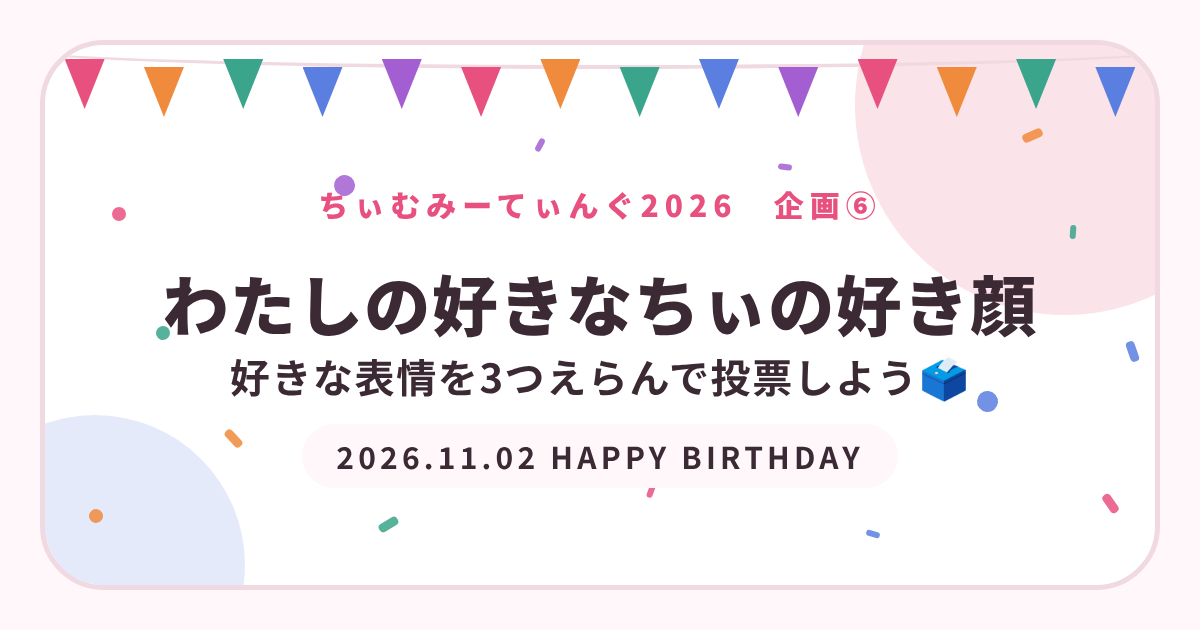
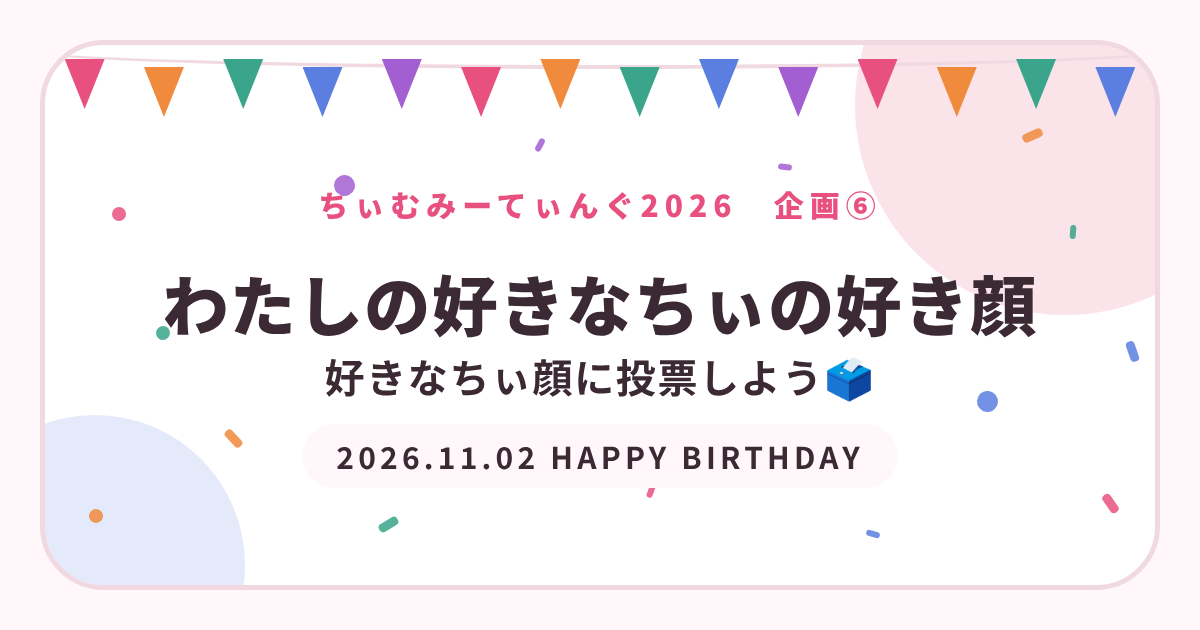
Add files via upload

Changed region(s): [[0.185, 0.573, 0.8017, 0.6333]]

diff --git a/_worker.js b/_worker.js
@@ -834,7 +834,8 @@ const PROJECTS = [
   { id: "kikaku3", title: "ちぃちゃんの推しTikTok", desc: "お気に入りのTikTokを教えて🎬", href: "/kikaku3", page: "kikaku3", open: false, soon: "10/28公開予定", showAfter: "kikaku2" },
   { id: "kikaku4", title: "23歳のちぃ記録", desc: "23歳のちぃちゃんの1年を振り返ろう🗓", href: "/kikaku4", page: "kikaku4", open: false, soon: "10/29公開予定", showAfter: "kikaku3" },
   { id: "kikaku5", title: "ちぃちゃんの好きパフォーマンス", desc: "その好きポイント「わかる！」🙌", href: "/kikaku5", page: "kikaku5", open: false, soon: "10/30公開予定", showAfter: "kikaku4" },
-  { id: "kikaku6", title: "わたしの好きなちぃの好き顔", desc: "好きな表情を3つえらんで投票しよう🗳", href: "/kikaku6", page: "kikaku6", pages: ["kikaku6-kekka"], open: false, soon: "10/31公開予定", showAfter: "kikaku5" },
+  { id: "kikaku6", title: "わたしの好きなちぃの好き顔", desc: "好きなちぃ顔に投票しよう🗳", href: "/kikaku6", page: "kikaku6", pages: ["kikaku6-kekka"], open: false, soon: "10/31公開予定", showAfter: "kikaku5" },
+  { id: "kikaku7", title: "（企画⑦・内容は準備中）", desc: "", href: "", open: false, soon: "11/1公開予定", showAfter: "kikaku6" },
 ];
 
 let projectsReady = false;

diff --git a/kikaku6.html b/kikaku6.html
@@ -7,7 +7,7 @@
 <meta property="og:type" content="website">
 <meta property="og:site_name" content="ちぃむみーてぃんぐ2026">
 <meta property="og:title" content="わたしの好きなちぃの好き顔｜ちぃむみーてぃんぐ2026">
-<meta property="og:description" content="ちぃむみーてぃんぐ2026 企画⑥ 好きな表情を3つえらんで投票しよう🗳">
+<meta property="og:description" content="ちぃむみーてぃんぐ2026 企画⑥ 好きなちぃ顔に投票しよう🗳">
 <meta property="og:image" content="/ogp-kikaku6.png">
 <meta property="og:image:width" content="1200">
 <meta property="og:image:height" content="630">
@@ -88,7 +88,7 @@ button,a,input{touch-action:manipulation}
   <a class="back" href="/">← ちぃむみーてぃんぐ2026 トップへ</a>
   <header>
     <h1>わたしの好きな<span>ちぃ</span>の好き顔</h1>
-    <p class="sub">好きな表情を3つえらんで投票しよう🗳</p>
+    <p class="sub">好きなちぃ顔に投票しよう🗳</p>
     <p class="lead">写真をタップして、好きな表情を3つえらんでね。投票すると、みんなの結果が見られるようになります。あとから選び直すこともできます（前の票と入れ替わります）。</p>
   </header>
   <div class="done" id="done" hidden>
